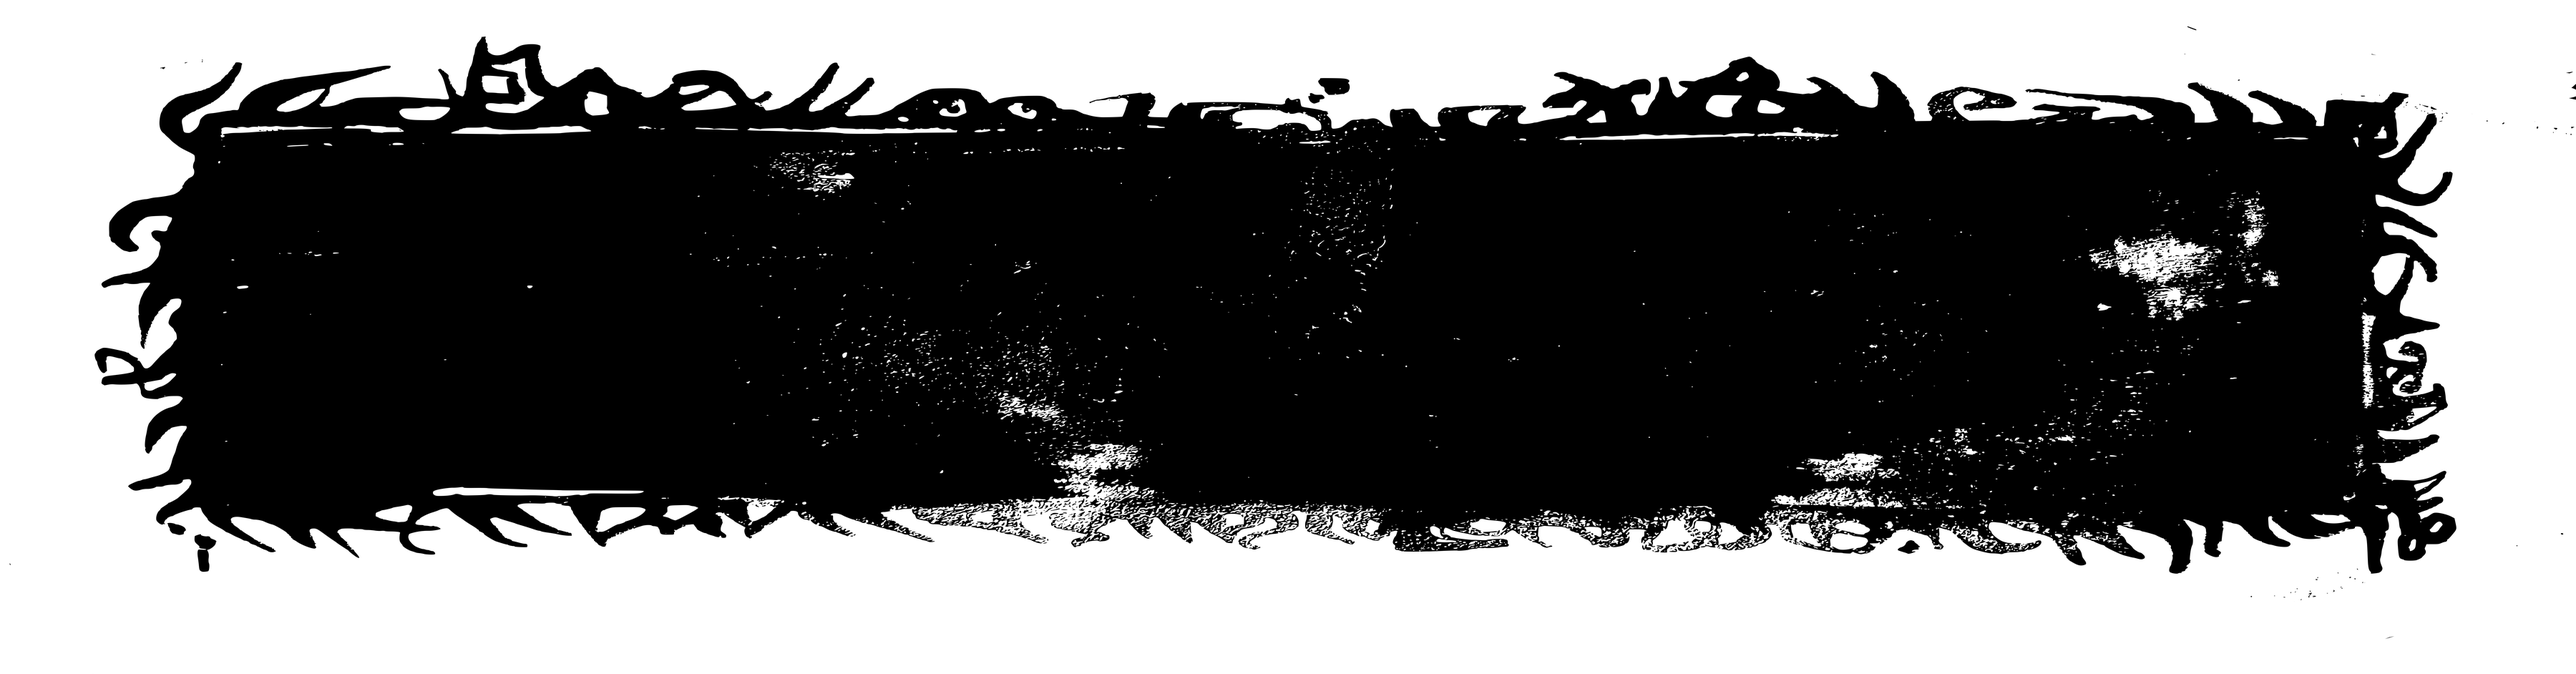
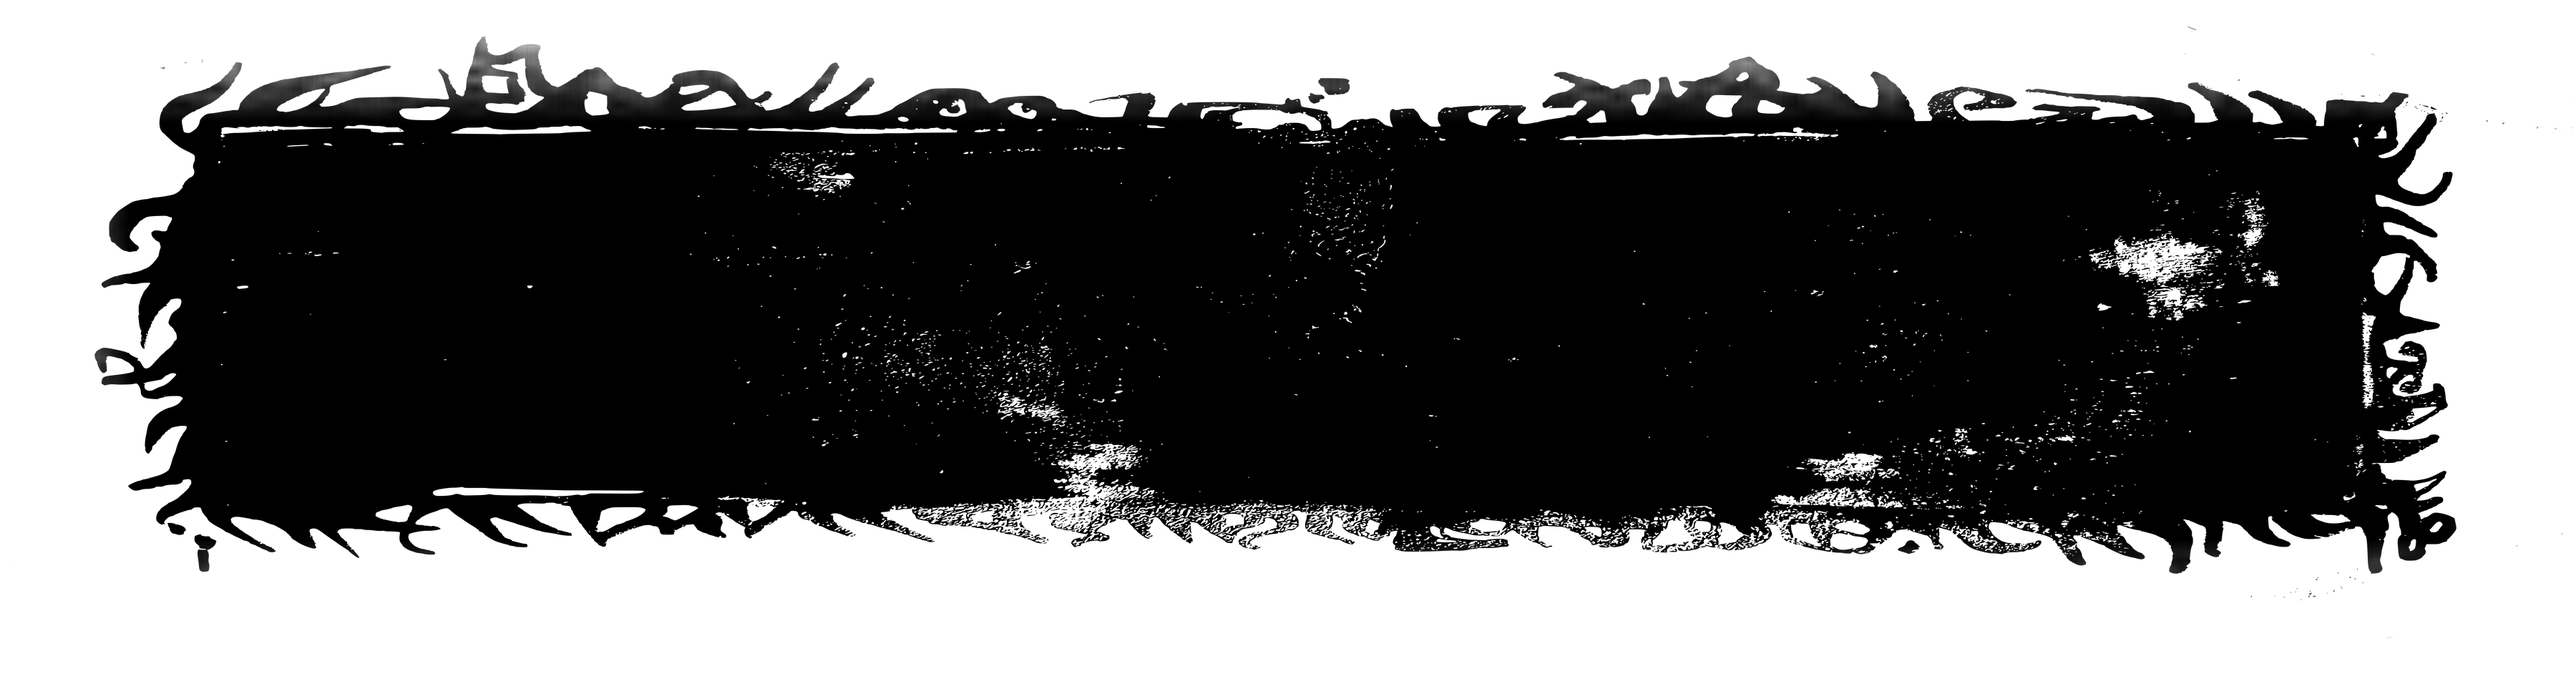
Bake the fade directly into video-frame.png instead of a CSS mask-image
CSS mask-image has inconsistent browser support - if it fails silently
in a way that nulls out the masked element entirely rather than just
ignoring the mask, the whole frame can vanish. Baked the same fade
directly into the PNG's own alpha channel and dropped the separate
mask file and all mask-image CSS, so it renders identically everywhere
with no compatibility risk.

diff --git a/styles.css b/styles.css
@@ -613,11 +613,11 @@ nav.menu a:hover, nav.menu a:focus-visible { opacity: .6; }
    top/bottom % se calculent contre la HAUTEUR du conteneur, left/right %
    contre sa LARGEUR, ce qui donne enfin un calcul fiable et correct. */
 .video-embeds { position: relative; width: 100%; max-width: min(90%, 580px); margin: 0 auto; aspect-ratio: 1.96; }
-/* fondu : le fond passe sur un ::before séparé (pas sur .video-embeds
-   lui-même) pour que le masque ne s'applique qu'à l'image du cadre, pas
-   aux vidéos par-dessus - plein noir contre les vidéos, qui s'estompe
-   vers transparent en allant vers les bords extérieurs du cadre. */
-.video-embeds::before { content: ""; position: absolute; inset: 0; background: url(video-frame.png) center / 100% 100% no-repeat; -webkit-mask-image: url(video-frame-mask.png); mask-image: url(video-frame-mask.png); -webkit-mask-size: 100% 100%; mask-size: 100% 100%; -webkit-mask-repeat: no-repeat; mask-repeat: no-repeat; }
+/* le fondu (plein noir contre les vidéos, s'estompant vers l'extérieur)
+   est maintenant cuit directement dans le canal alpha de video-frame.png
+   (plus de mask-image CSS, au support inégal selon les navigateurs -
+   ça marche partout, sans exception). */
+.video-embeds::before { content: ""; position: absolute; inset: 0; background: url(video-frame.png) center / 100% 100% no-repeat; }
 .video-embed-row { position: absolute; top: 25%; bottom: 30%; left: 8%; right: 8%; display: flex; flex-direction: row; justify-content: center; gap: .9rem; }
 .video-embed { flex: 0 0 auto; height: 100%; }
 .video-embed-frame { position: relative; height: 100%; width: auto; aspect-ratio: 16 / 9; box-sizing: border-box; border: 3px solid #000; box-shadow: 0 4px 14px rgba(0,0,0,.25); overflow: hidden; }

diff --git a/video-es.html b/video-es.html
@@ -17,7 +17,7 @@
 <meta property="og:image:height" content="602">
 <meta name="twitter:card" content="summary_large_image">
 <link rel="icon" type="image/png" href="favicon.png?v=2">
-<link rel="stylesheet" href="styles.css?v=300">
+<link rel="stylesheet" href="styles.css?v=301">
 <script type="application/ld+json">
 {
   "@context": "https://schema.org",

diff --git a/video-fr.html b/video-fr.html
@@ -17,7 +17,7 @@
 <meta property="og:image:height" content="602">
 <meta name="twitter:card" content="summary_large_image">
 <link rel="icon" type="image/png" href="favicon.png?v=2">
-<link rel="stylesheet" href="styles.css?v=300">
+<link rel="stylesheet" href="styles.css?v=301">
 <script type="application/ld+json">
 {
   "@context": "https://schema.org",

diff --git a/video-ro.html b/video-ro.html
@@ -17,7 +17,7 @@
 <meta property="og:image:height" content="602">
 <meta name="twitter:card" content="summary_large_image">
 <link rel="icon" type="image/png" href="favicon.png?v=2">
-<link rel="stylesheet" href="styles.css?v=300">
+<link rel="stylesheet" href="styles.css?v=301">
 <script type="application/ld+json">
 {
   "@context": "https://schema.org",

diff --git a/video.html b/video.html
@@ -17,7 +17,7 @@
 <meta property="og:image:height" content="602">
 <meta name="twitter:card" content="summary_large_image">
 <link rel="icon" type="image/png" href="favicon.png?v=2">
-<link rel="stylesheet" href="styles.css?v=300">
+<link rel="stylesheet" href="styles.css?v=301">
 <script type="application/ld+json">
 {
   "@context": "https://schema.org",
